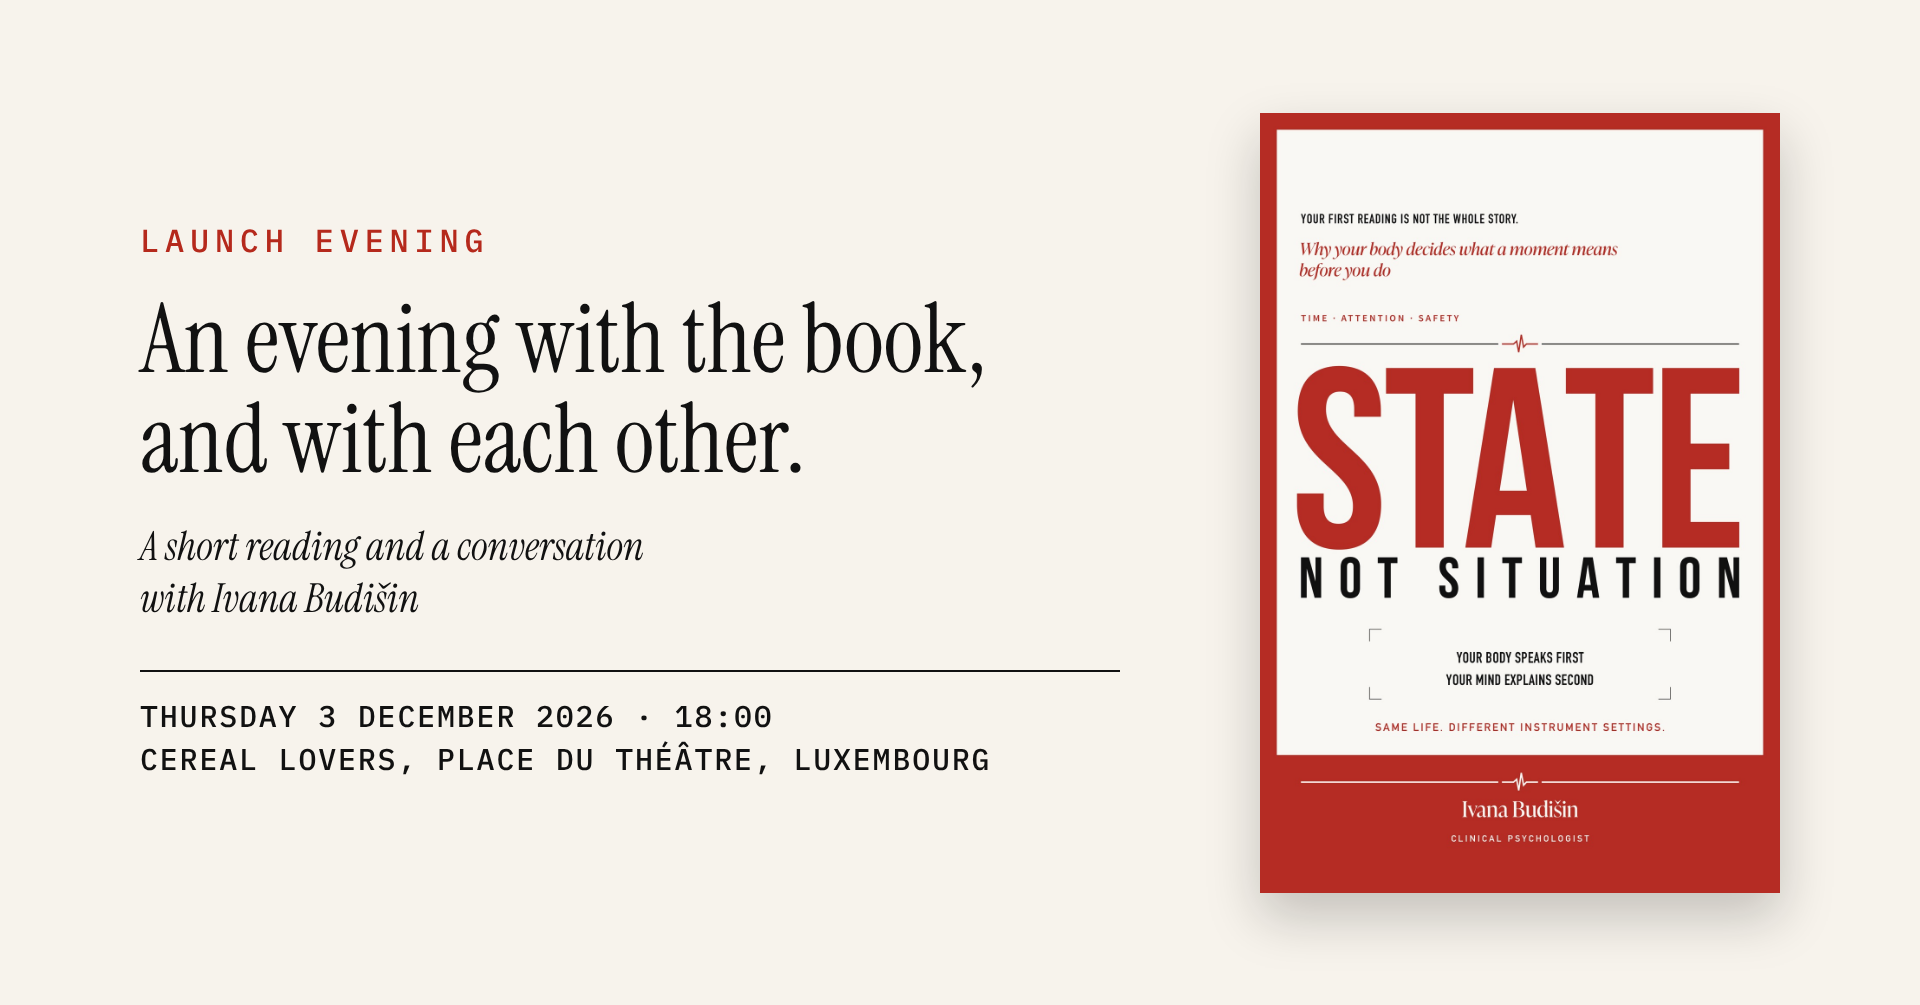
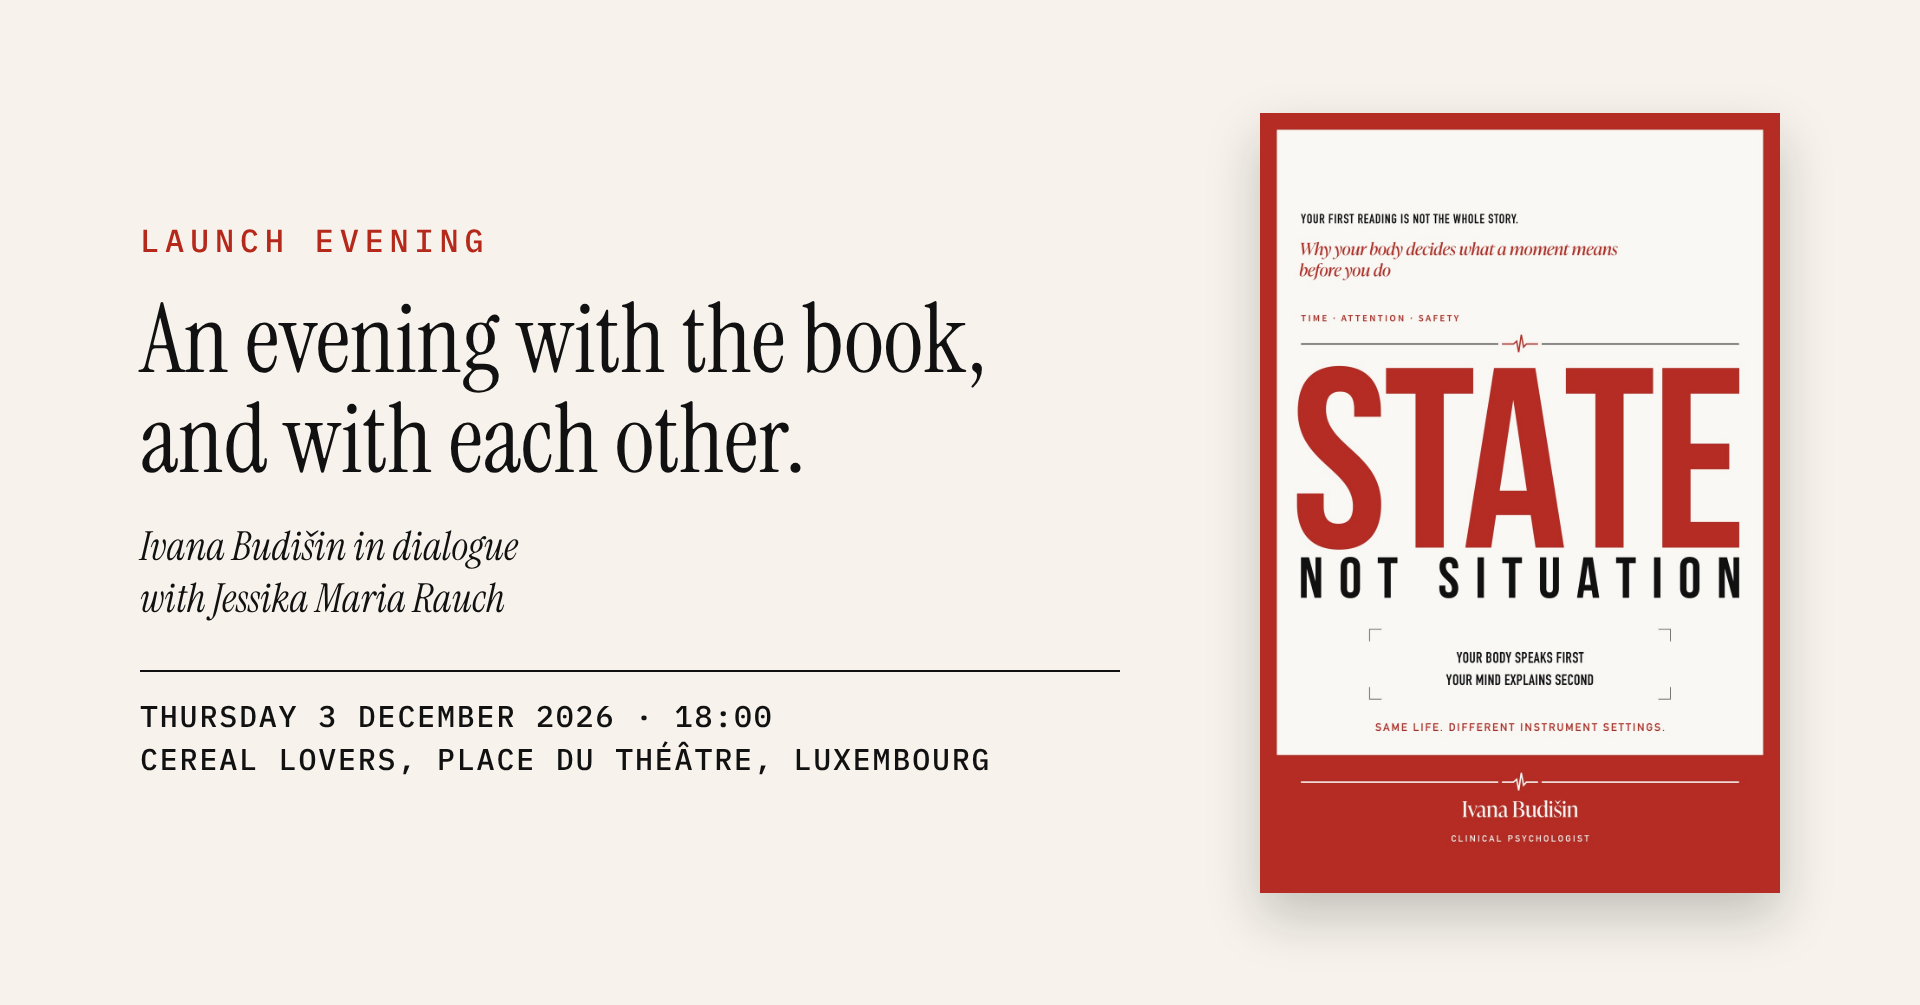
Launch evening images and listings: in dialogue with Jessika Maria Rauch
Claude-Session: https://claude.ai/code/session_011ZdN2yAVg81HYNrHbaqyWF

Changed region(s): [[0.0625, 0.5244, 0.3438, 0.6169]]

diff --git a/agency/13-launch-evening/event-listings.md b/agency/13-launch-evening/event-listings.md
@@ -18,9 +18,9 @@ Details:
 
 An evening to mark the publication of State. Not Situation., with its author, Ivana Budišin.
 
-Not a lecture. A short reading, then a conversation about the moments that stay with us longer than they should: the message that felt cold, the evening that turned for no clear reason, and the story we tell ourselves about it afterwards.
+Not a lecture. A short reading, then a dialogue with the journalist Jessika Maria Rauch about the moments that stay with us longer than they should: the message that felt cold, the evening that turned for no clear reason, and the story we tell ourselves about it afterwards.
 
-Come with a question, or simply with the day you have had. There is coffee, there is time to talk, and the author signs copies.
+Come with a question, or simply with the day you have had. There are drinks, there is time to talk, and the author signs copies.
 
 In English, with questions welcome in French. Places are reserved by email: https://statenotsituation.com/en/events/launch-evening-luxembourg-2026-12
 
@@ -35,7 +35,7 @@ Start: 3 December 2026, 18:00. End: 20:00.
 
 Description (Google allows 1,500 characters):
 
-A short reading and a conversation with Ivana Budišin, clinical psychologist, to mark the publication of her book State. Not Situation. An evening about the moments that stay with us longer than they should, and the story we tell ourselves about them afterwards. Coffee, time to talk, and signed copies. In English, with questions welcome in French.
+A short reading and a dialogue: Ivana Budišin, clinical psychologist, in conversation with the journalist Jessika Maria Rauch, to mark the publication of her book State. Not Situation. An evening about the moments that stay with us longer than they should, and the story we tell ourselves about them afterwards. Drinks, time to talk, and signed copies. In English, with questions welcome in French.
 
 Button: "Learn more", with the reservation link above.
 
@@ -47,7 +47,7 @@ When: Thursday 3 December 2026, 18:00 to 20:00
 
 Description:
 
-A short reading and a conversation, then time to talk. I would love to see you there.
+A short reading and a dialogue with Jessika Maria Rauch, then time to talk. I would love to see you there.
 Details: https://statenotsituation.com/en/events/launch-evening-luxembourg-2026-12
 
 Ivana
